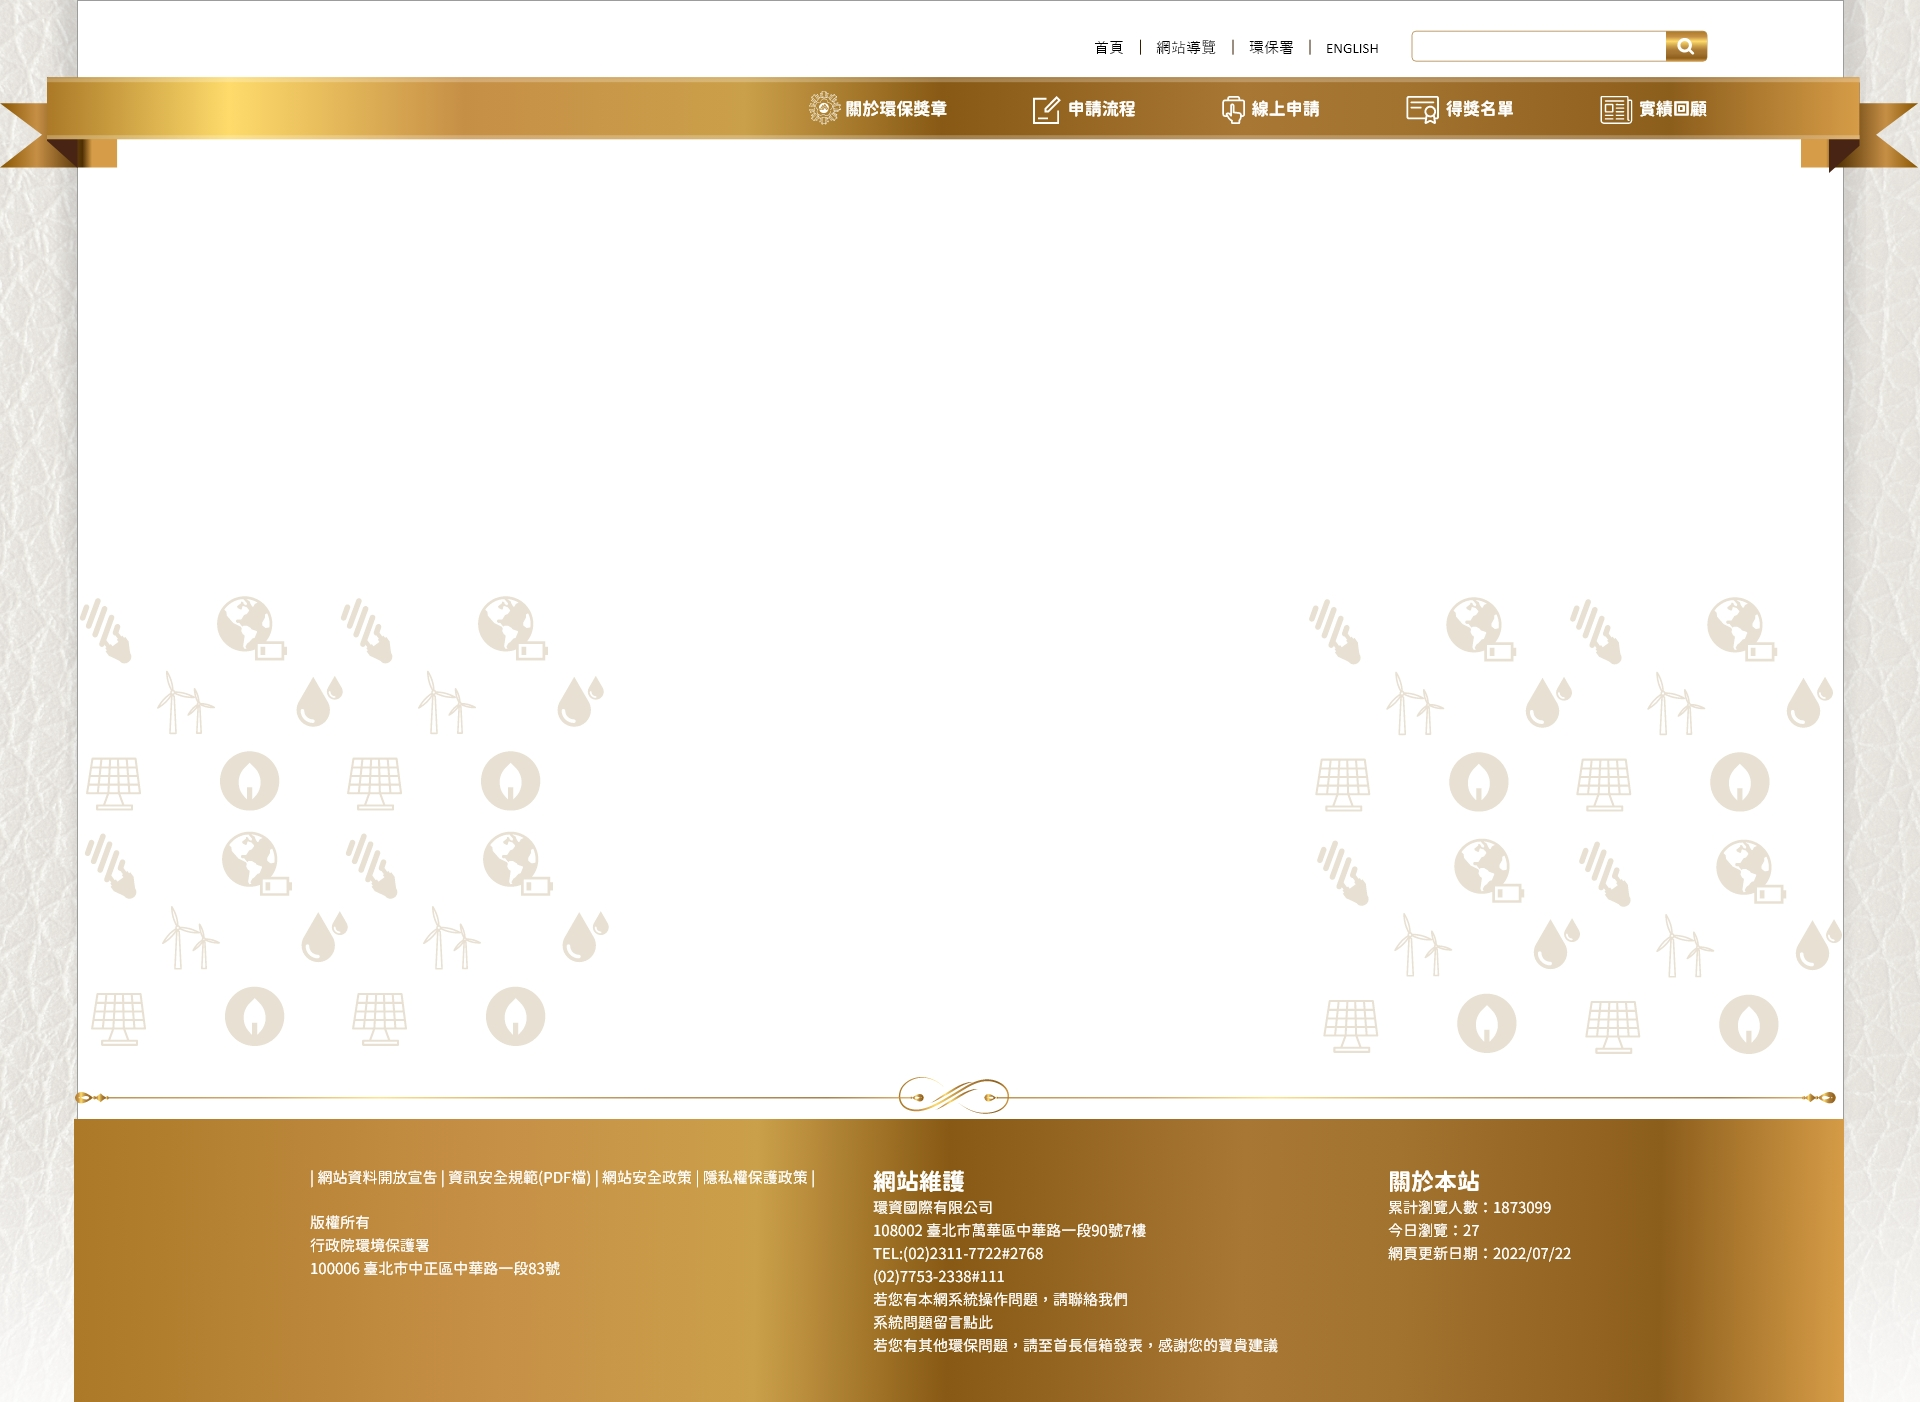
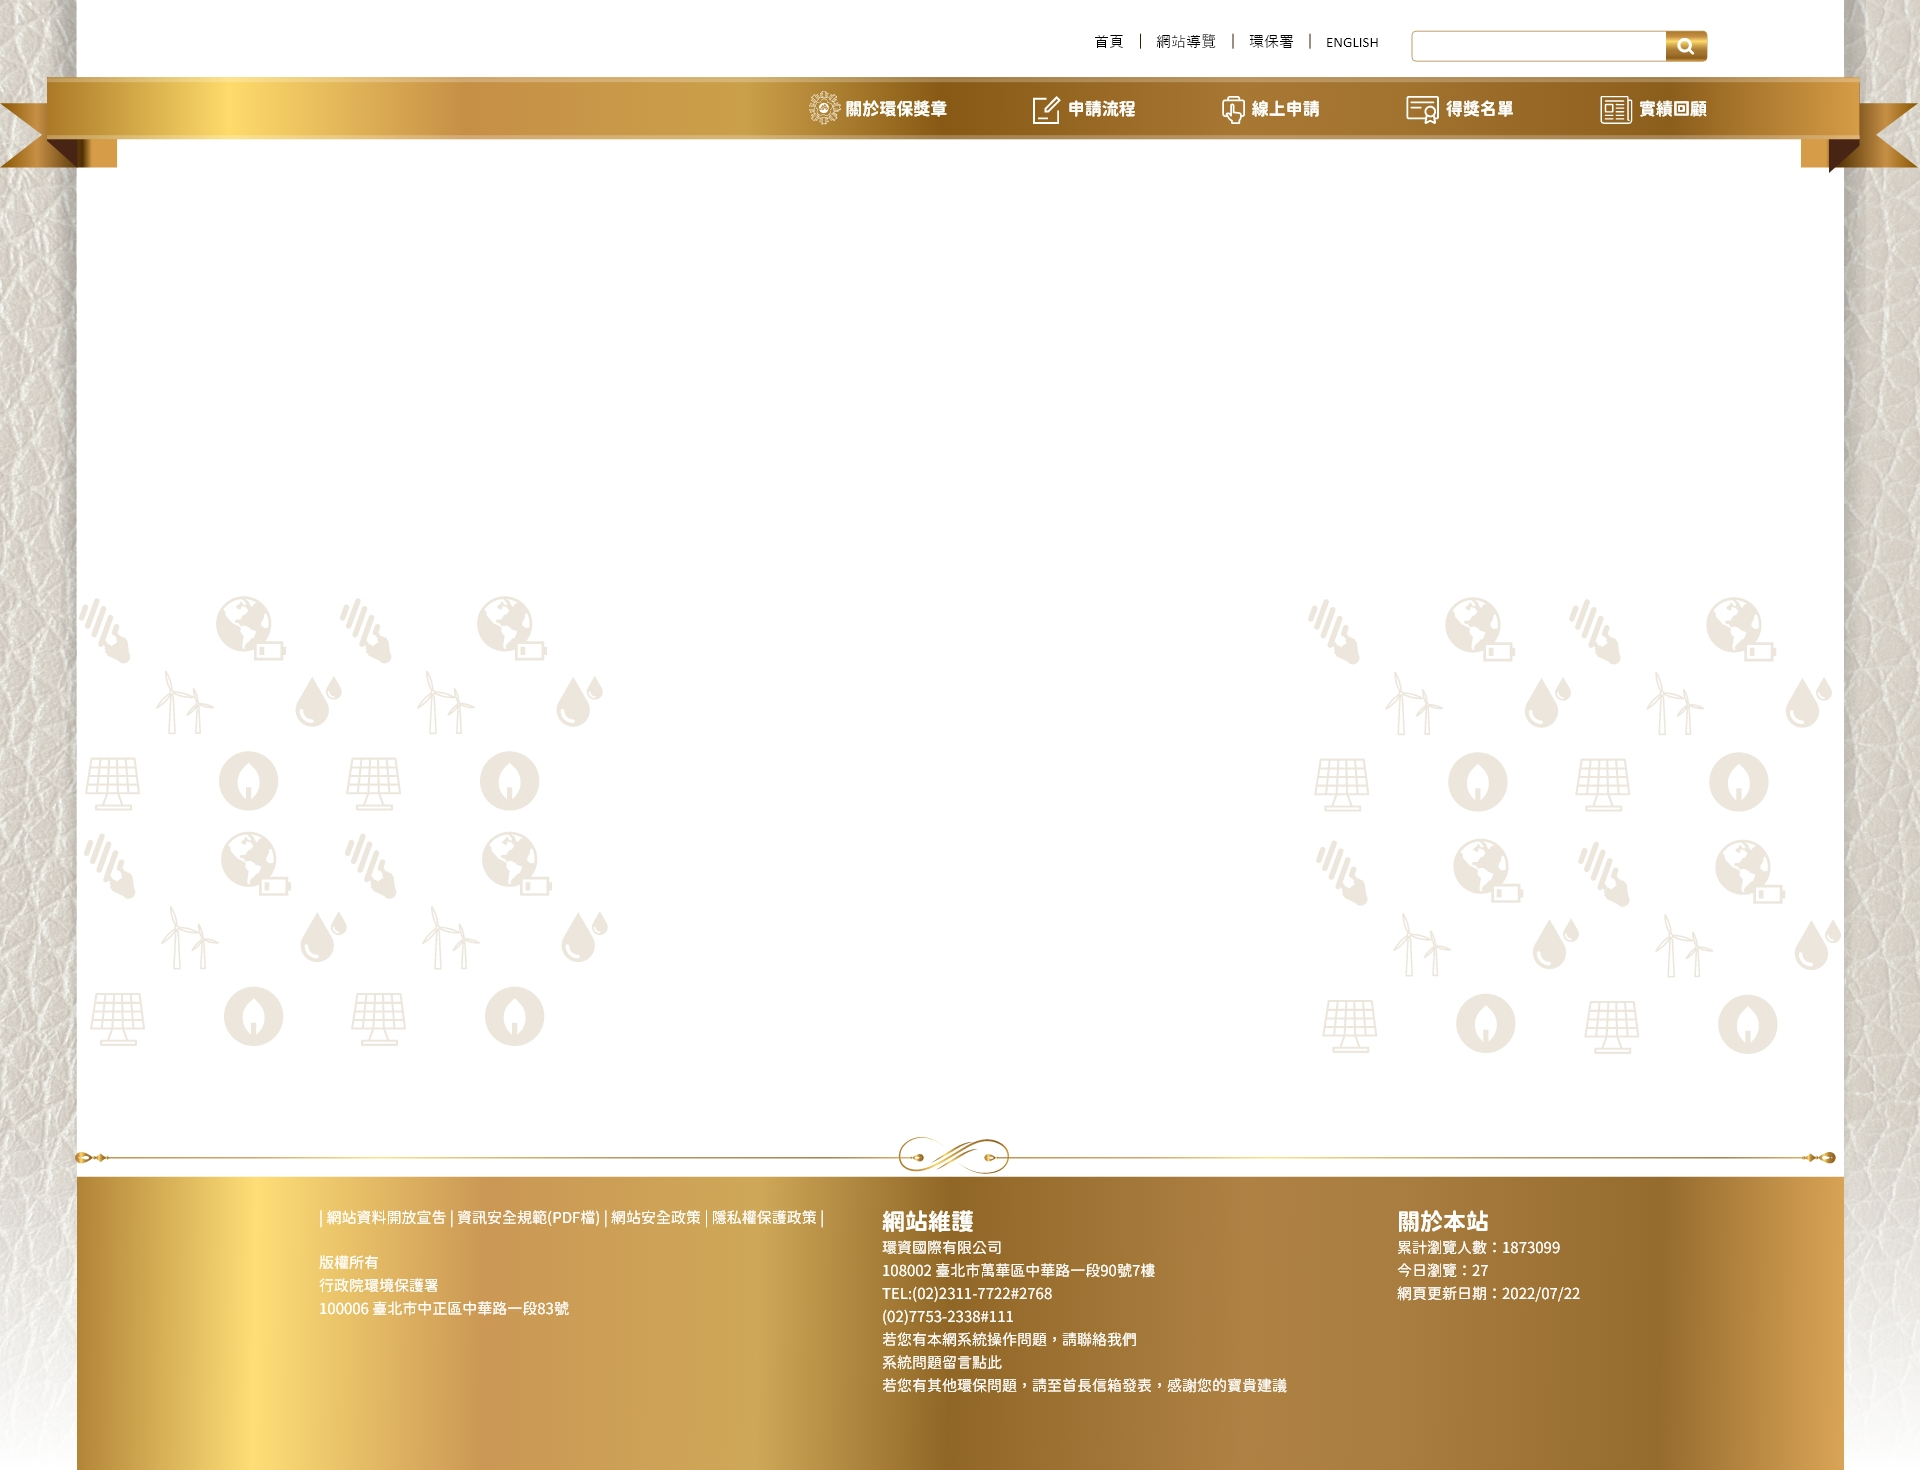
151

diff --git a/EnvironmentalMedal2/index5.html b/EnvironmentalMedal2/index5.html
@@ -27,11 +27,16 @@
     <div class="aa wow fadeIn" data-wow-delay="0.1s">
         <div class=" banner1 wow flip">
             <div class="banner2">
-                <img src="img/banner2.jpg" alt="">
+                <div style="left: 50%; margin-left: calc(50% - 960px);">
+                    <img src="img/banner2.jpg" alt="">
+                </div>
             </div>
-            <div class="Group_shine wow fadeIn" data-wow-delay="2s"></div>
-            <img src="img/Group.svg" alt="" class="Group wow fadeIn" data-wow-delay="1.5s">
+
+            <img src="img/Group.svg" alt="" class="Group ">
+            <div class="Group_shine"></div>
+
             <img src="img/bottom_banner2.svg" alt="" class="bottom_banner wow fadeIn" data-wow-delay="1s">
+
         </div>
         <div align="center">
             <img src="img/news1.svg" alt="" class="news1 wow fadeInUp" data-wow-delay="0.9s">

diff --git a/EnvironmentalMedal2/css/main-style.css b/EnvironmentalMedal2/css/main-style.css
@@ -71,7 +71,7 @@ h1 .shine_logo2 {
 .aa {
     background: url(../img/white.jpg) no-repeat top center;
     width: 100%;
-    height: 1380px;
+    height: 1450px;
     padding-top: 139px;
     position: relative;
 }
@@ -123,7 +123,7 @@ h1 .shine_logo2 {
 .bb {
     background: #000 url(../img/black_gold.jpg) no-repeat top center;
     width: 100%;
-    height: 1400px;
+    height: 1470px;
 }
 
 .banner3 {

diff --git a/EnvironmentalMedal2/css/main-style2.css b/EnvironmentalMedal2/css/main-style2.css
@@ -134,7 +134,7 @@ h1 .shine_logo2 {
 .bb {
     background: #000 url(../img/black_gold.jpg) no-repeat top center;
     width: 100%;
-    height: 1400px;
+    height: 1470px;
 }
 
 .banner2 {
